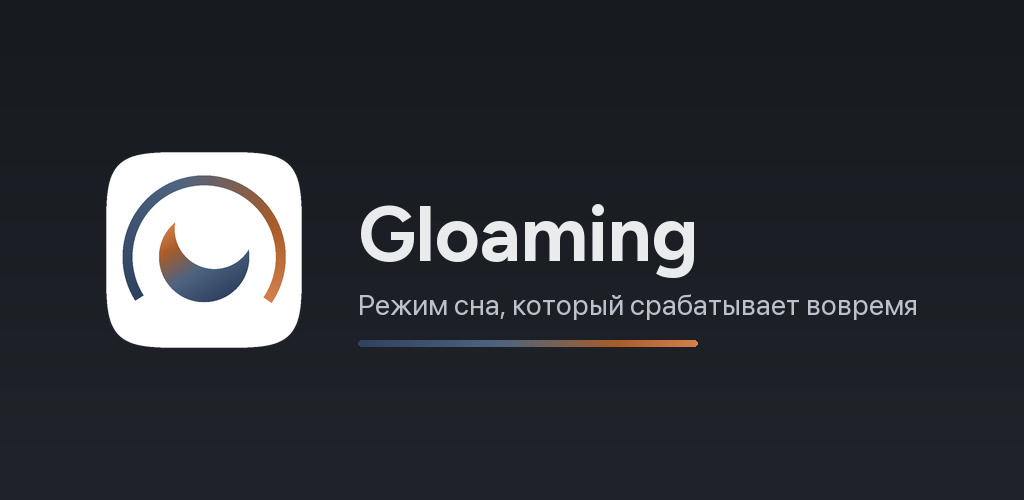
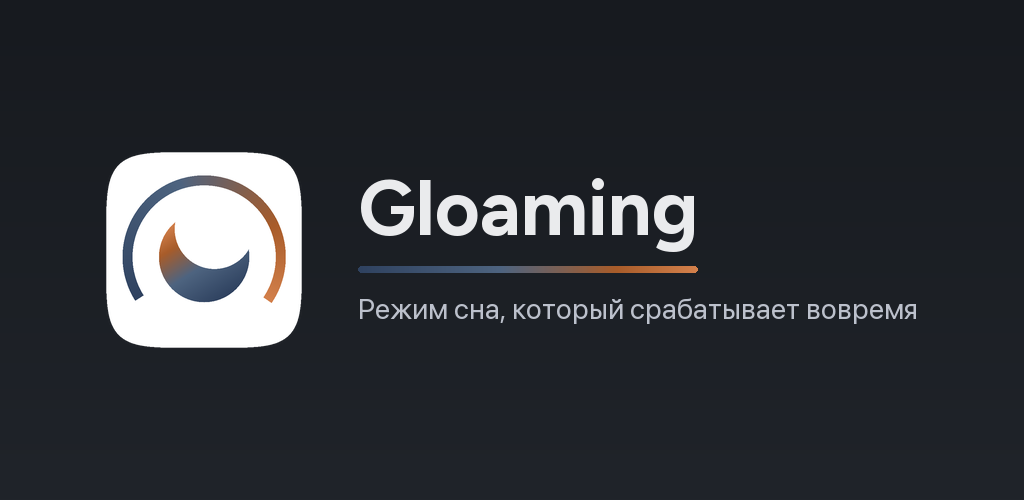
Put the feature graphic's rule between the wordmark and the tagline (#49)
Assets only: the three Play feature graphics and the script that draws
them.

Wordmark, rule, tagline, in all three languages, with the rule keeping
the wordmark's width. The text block is also centred on the tile now,
measured, where it had sat twelve pixels low. Icon and screenshots
regenerate identical.

🤖 Generated with [Claude Code](https://claude.com/claude-code)

Changed region(s): [[0.3438, 0.36, 0.9062, 0.72]]

diff --git a/tools/play_assets.py b/tools/play_assets.py
@@ -162,8 +162,13 @@ def build_feature(lang='en'):
     img.paste(tile, (left, (H - TILE) // 2), tile)
 
     x = left + TILE + GAP
-    d.text((x, 186), WORDMARK, font=mark_f, fill=hx(ON_SURFACE))
-    d.text((x, 286), tagline, font=tag_f, fill=hx(ON_SURFACE_LOW))
+    # Wordmark, then the rule, then the tagline: the rule separates the name
+    # from what it does, the way it does on the site under the title. It used
+    # to sit under the tagline, where it read as an underline of the wrong line.
+    # Centred on the tile as a block, 178 to 323 of ink against the tile's 152
+    # to 348 - measured, since the old block sat twelve pixels low.
+    d.text((x, 160), WORDMARK, font=mark_f, fill=hx(ON_SURFACE))
+    d.text((x, 290), tagline, font=tag_f, fill=hx(ON_SURFACE_LOW))
 
     # The dial's own sweep, as a rule under the tagline. Night to dawn, left to
     # right, from the same stops the arc and the crescent use. As WIDE AS THE
@@ -172,7 +177,7 @@ def build_feature(lang='en'):
     # that had stopped. Measured from the glyphs, not the advance width, so a
     # face with side bearings does not leave a gap at either end.
     bx0, _, bx1, _ = mark_f.getbbox(WORDMARK)
-    rw, rh, ry = int(round(bx1 - bx0)), 7, 340
+    rw, rh, ry = int(round(bx1 - bx0)), 7, 266
     lut = np.array([ramp(ARC, i / (rw - 1)) for i in range(rw)])
     rule = Image.fromarray(
         np.repeat(lut[None, :, :], rh, axis=0).clip(0, 255).astype(np.uint8), 'RGB')
